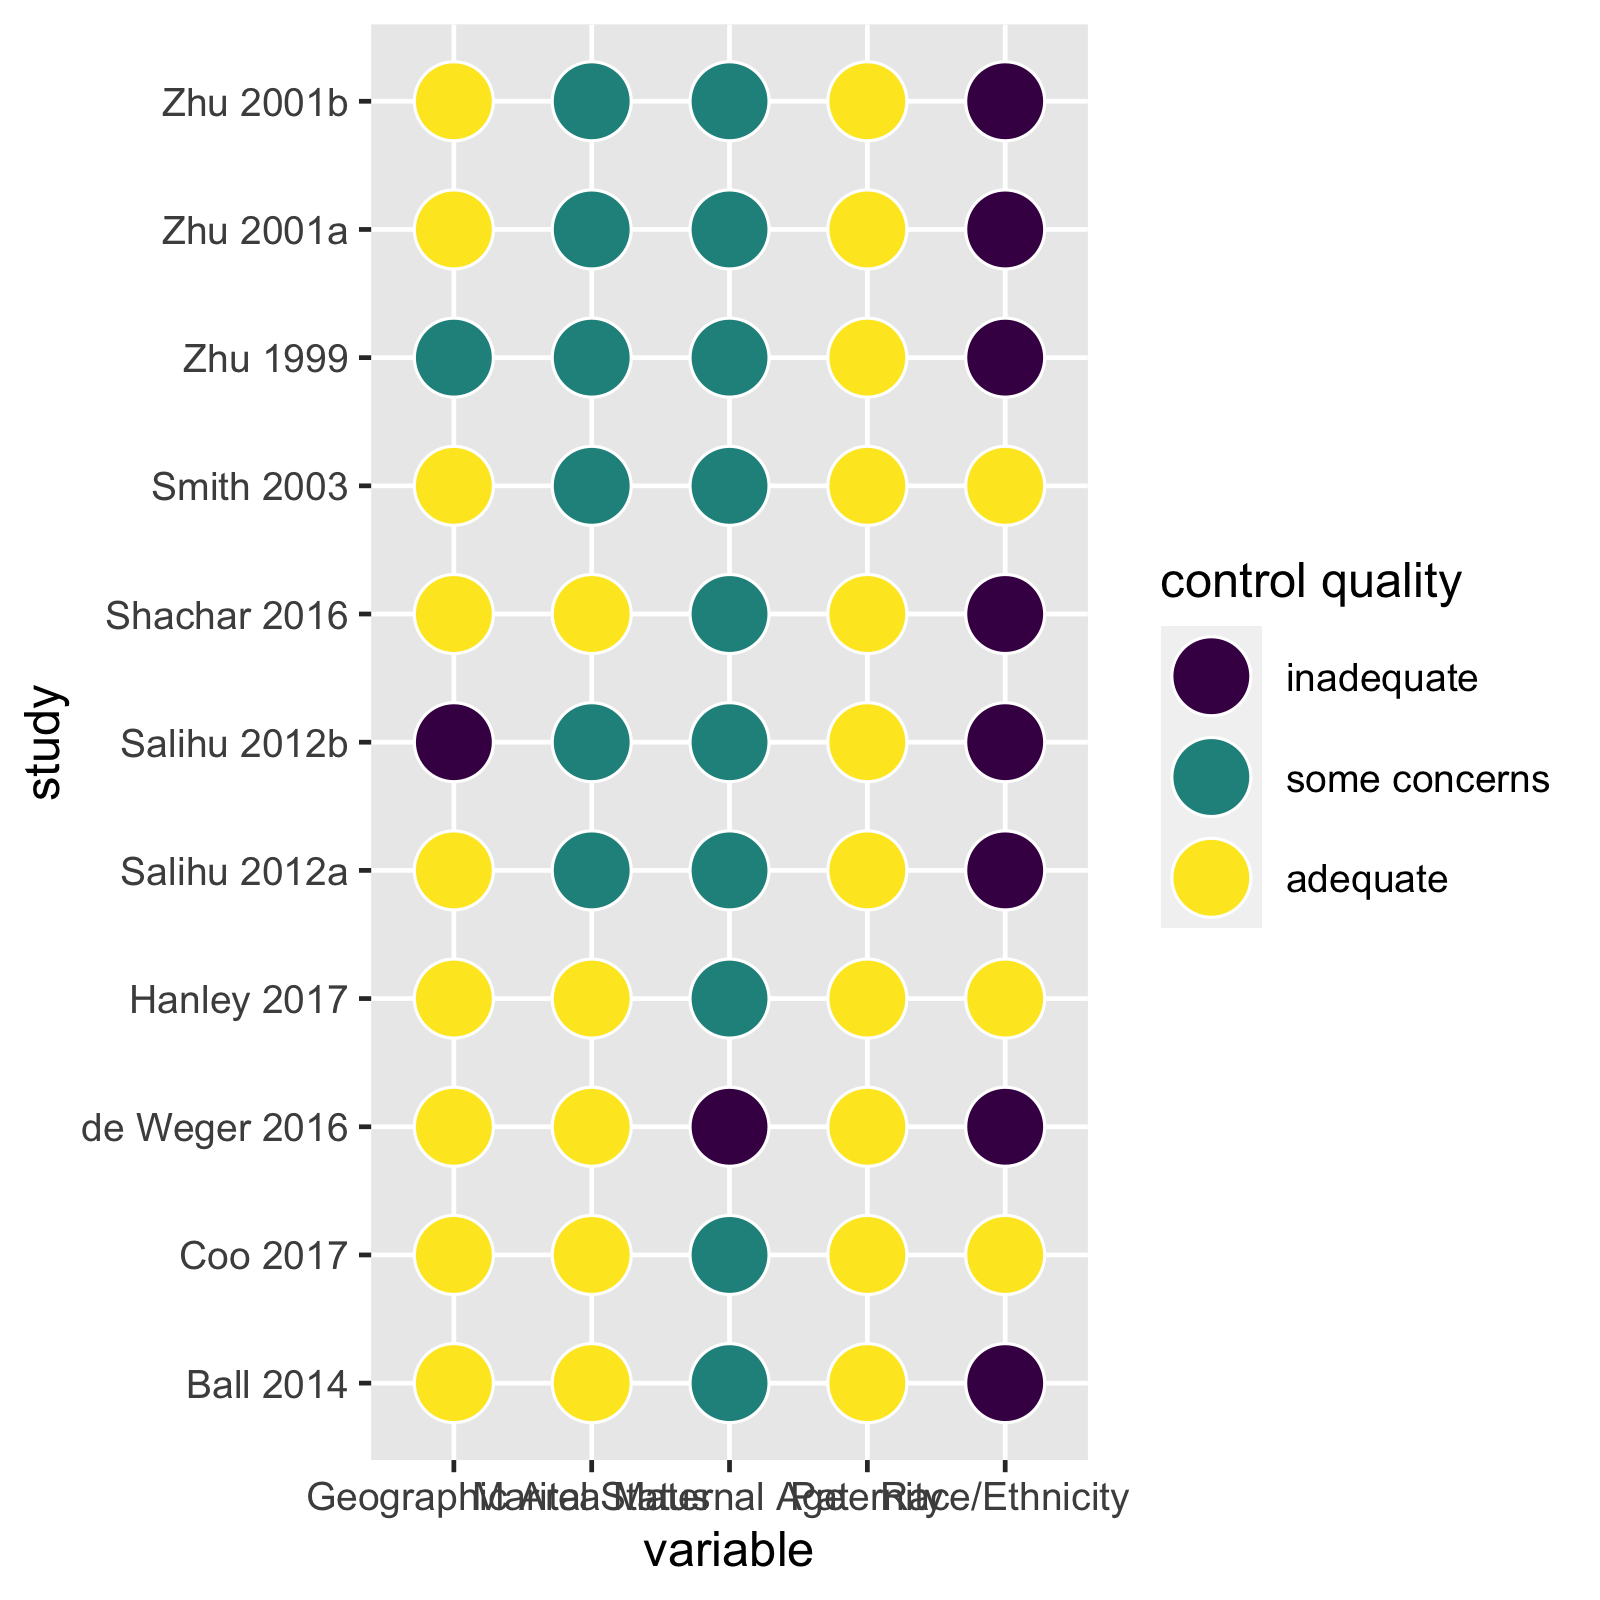
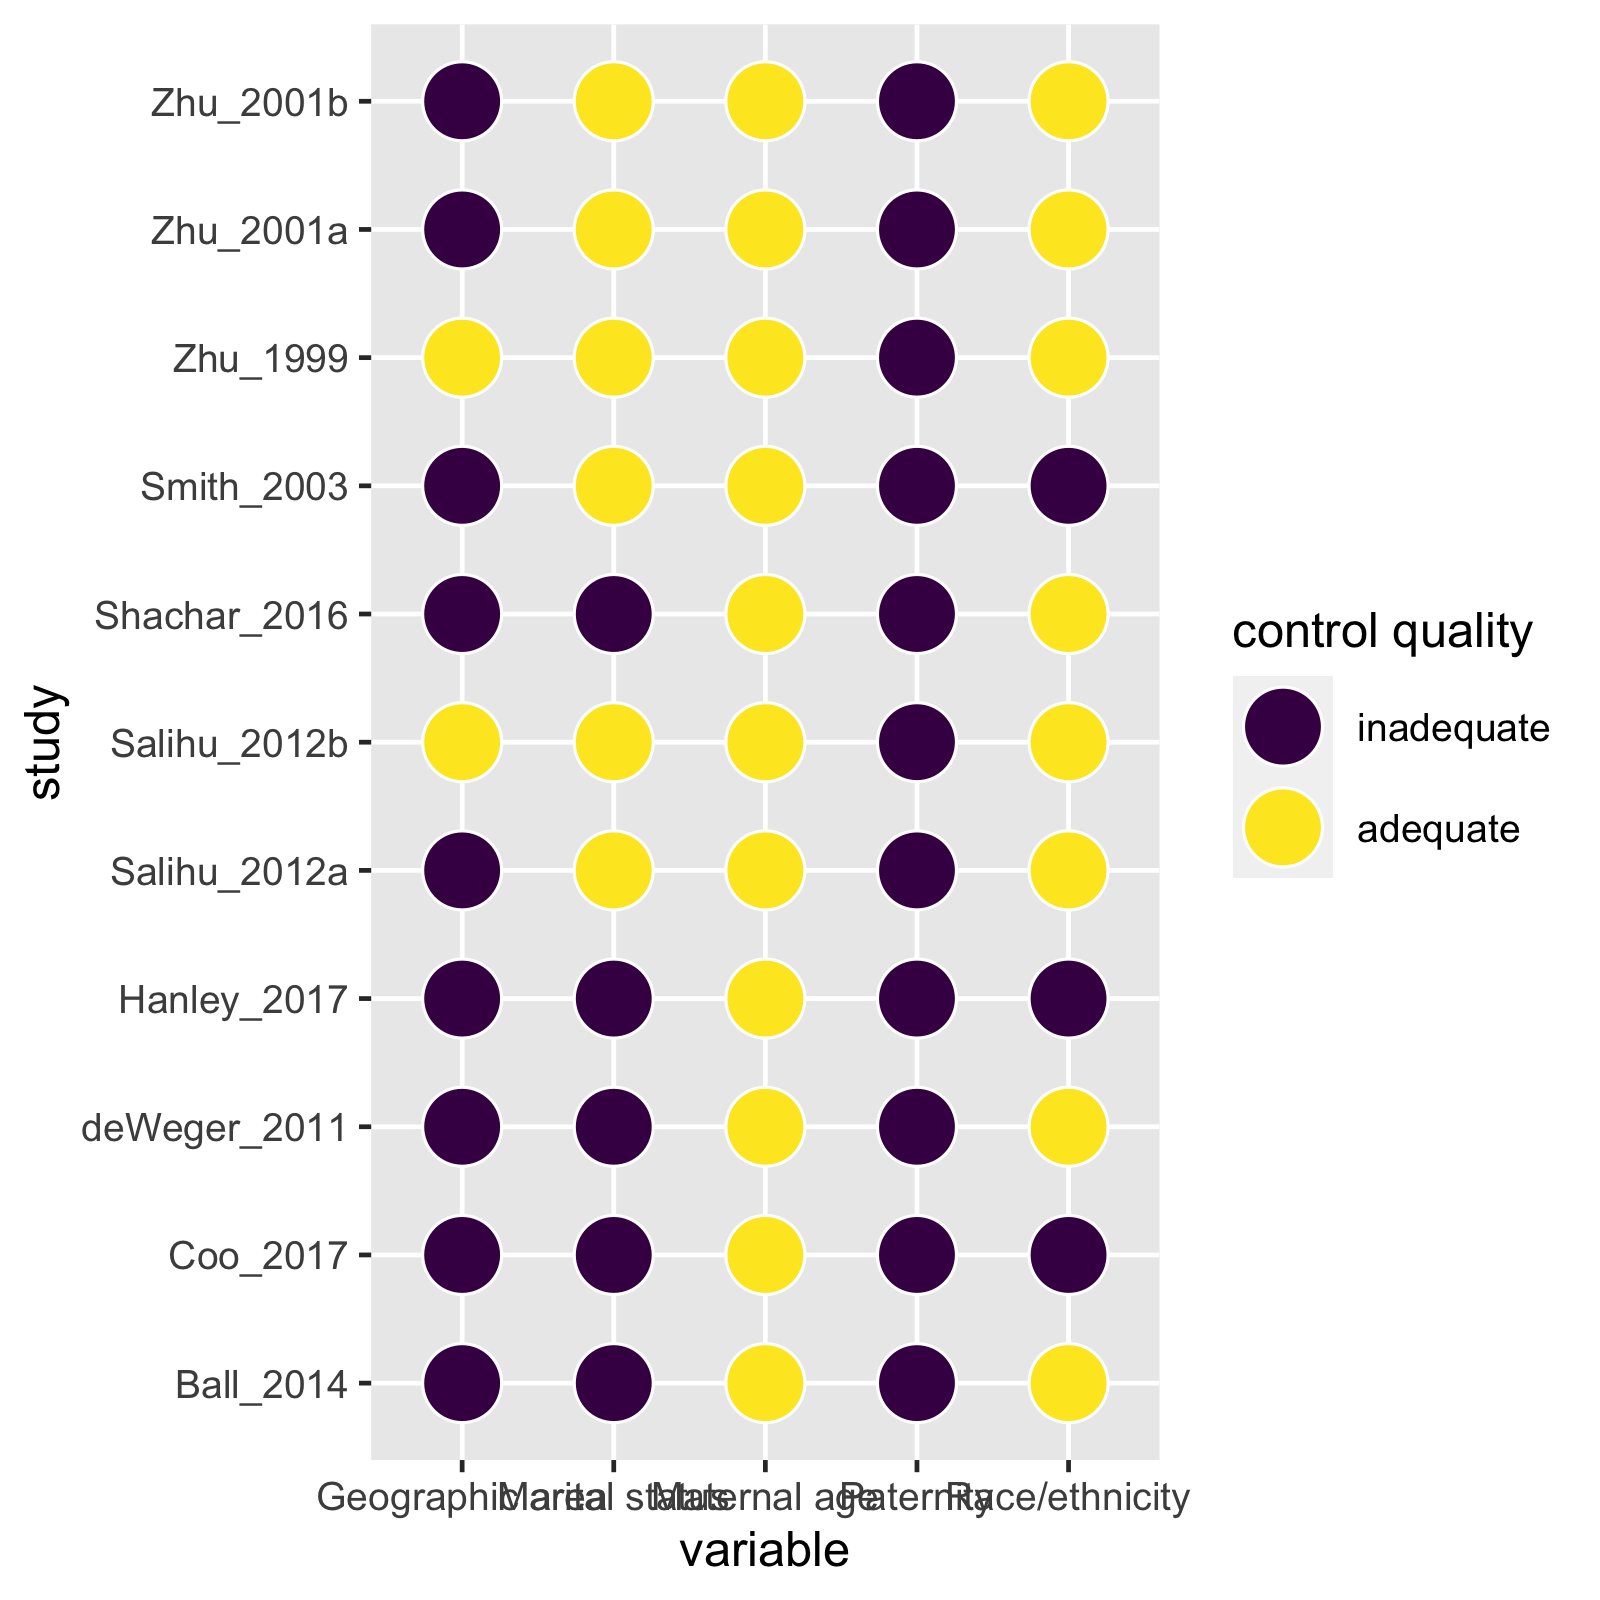
update readme

diff --git a/README.md b/README.md
@@ -54,19 +54,19 @@ mc_ipi <- metaconfoundr(ipi) %>%
   dplyr::filter(construct == "Sociodemographics")
 
 mc_ipi
-#> # A tibble: 55 x 5
+#> # A tibble: 55 × 5
 #>    construct         variable     is_confounder study        control_quality
 #>    <chr>             <chr>        <chr>         <chr>        <ord>          
-#>  1 Sociodemographics Maternal Age Y             Zhu 2001a    some concerns  
-#>  2 Sociodemographics Maternal Age Y             Zhu 2001b    some concerns  
-#>  3 Sociodemographics Maternal Age Y             Zhu 1999     some concerns  
-#>  4 Sociodemographics Maternal Age Y             Salihu 2012a some concerns  
-#>  5 Sociodemographics Maternal Age Y             Salihu 2012b some concerns  
-#>  6 Sociodemographics Maternal Age Y             Smith 2003   some concerns  
-#>  7 Sociodemographics Maternal Age Y             Shachar 2016 some concerns  
-#>  8 Sociodemographics Maternal Age Y             Ball 2014    some concerns  
-#>  9 Sociodemographics Maternal Age Y             Coo 2017     some concerns  
-#> 10 Sociodemographics Maternal Age Y             Hanley 2017  some concerns  
+#>  1 Sociodemographics Maternal age Y             Zhu_2001a    adequate       
+#>  2 Sociodemographics Maternal age Y             Zhu_2001b    adequate       
+#>  3 Sociodemographics Maternal age Y             Zhu_1999     adequate       
+#>  4 Sociodemographics Maternal age Y             Smith_2003   adequate       
+#>  5 Sociodemographics Maternal age Y             Shachar_2016 adequate       
+#>  6 Sociodemographics Maternal age Y             Salihu_2012a adequate       
+#>  7 Sociodemographics Maternal age Y             Salihu_2012b adequate       
+#>  8 Sociodemographics Maternal age Y             Hanley_2017  adequate       
+#>  9 Sociodemographics Maternal age Y             deWeger_2011 adequate       
+#> 10 Sociodemographics Maternal age Y             Coo_2017     adequate       
 #> # … with 45 more rows
 ```
 
